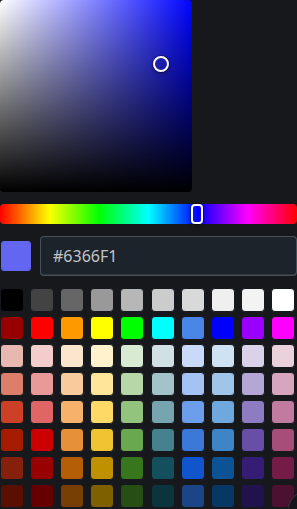
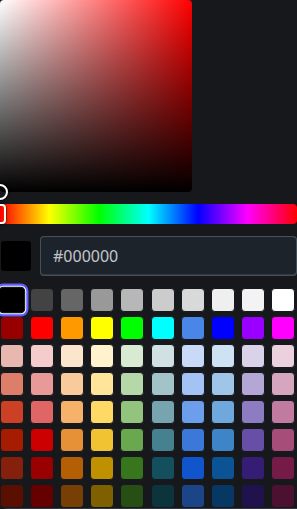
Improve component overview screenshots for interactive components
Update capture script to handle floating/portal elements by calculating
combined bounding boxes of trigger + floating content. Components like
Dropdown, Autocomplete, ColorPicker now show their open state in the
overview page.

diff --git a/packages/docs/scripts/capture-components.ts b/packages/docs/scripts/capture-components.ts
@@ -42,10 +42,12 @@ interface DemoConfig {
   demo?: number           // Which demo (1-indexed, default 1)
   selector?: string       // Custom selector instead of demo index
   click?: string          // Selector to click before capturing
+  hover?: string          // Selector to hover before capturing (for hover triggers)
   wait?: number           // Extra wait time after click (ms)
   captureArea?: boolean   // Capture the whole demo area (for dropdowns, popovers, etc.)
   padding?: string        // Add padding to demo area (for overflow elements like badges)
   center?: boolean        // Center content in demo area
+  floating?: string       // Selector for floating element to include (rendered via portal)
 }
 
 const DEMO_CONFIG: Record<string, DemoConfig> = {
@@ -55,8 +57,11 @@ const DEMO_CONFIG: Record<string, DemoConfig> = {
   'collapse': { click: '.collapse-title' },
   'countdown': { captureArea: true, padding: '0.5rem', center: true },
   'hero': { demo: 3 },  // WithFigureDemo - Box Office News
-  // These components have floating elements that are hard to capture cleanly
-  // Just show them in their closed/default state
+  // Floating elements - click to open and capture combined area
+  'dropdown': { demo: 5, click: 'button', wait: 300, floating: '.d-menu' },  // WithIconsDemo
+  'autocomplete': { click: 'input', wait: 300, floating: '.d-menu' },
+  'tooltip': { demo: 4, captureArea: true, padding: '2rem 1rem 1rem 1rem' },  // OpenStateDemo - always visible
+  'colorpicker': { click: 'button', wait: 300, floating: '[class*="colorpicker"]' },
 }
 
 // All components
@@ -120,6 +125,41 @@ async function getComponentElement(page: any, slug: string) {
     }
   }
 
+  // Hover to activate if configured
+  if (config.hover) {
+    const hoverTarget = await demoArea.$(config.hover)
+    if (hoverTarget) {
+      await hoverTarget.hover()
+      await page.waitForTimeout(config.wait || 300)
+    }
+  }
+
+  // If floating element configured, find the visible floating element
+  if (config.floating) {
+    // Find the visible floating element (rendered via portal to body)
+    const floating = await page.evaluateHandle((selector: string) => {
+      const elements = document.querySelectorAll(selector)
+      for (const el of elements) {
+        const rect = el.getBoundingClientRect()
+        const style = getComputedStyle(el)
+        // Check if element is visible and positioned on screen
+        if (rect.width > 0 && rect.height > 0 &&
+            style.display !== 'none' &&
+            style.visibility !== 'hidden' &&
+            rect.top > 0 && rect.left > 0) {
+          return el
+        }
+      }
+      return null
+    }, config.floating)
+
+    const floatingEl = floating.asElement()
+    if (floatingEl) {
+      const trigger = await demoArea.$(':scope > *')
+      return { trigger, floating: floatingEl, type: 'combined' }
+    }
+  }
+
   // Return the demo area or its first child based on config
   if (config.captureArea) {
     return demoArea
@@ -150,11 +190,40 @@ async function captureComponent(page: any, slug: string, theme: 'light' | 'dark'
     const suffix = theme === 'dark' ? '-dark' : ''
     const outputPath = join(OUTPUT_DIR, `${slug}${suffix}.png`)
 
-    await component.screenshot({
-      path: outputPath,
-      type: 'png',
-      omitBackground: true,
-    })
+    // Handle combined bounding box for floating elements
+    if (component.type === 'combined') {
+      const triggerBox = await component.trigger.boundingBox()
+      const floatingBox = await component.floating.boundingBox()
+
+      if (!triggerBox || !floatingBox) {
+        return false
+      }
+
+      // Calculate combined bounding box with padding
+      const padding = 8
+      const x = Math.min(triggerBox.x, floatingBox.x) - padding
+      const y = Math.min(triggerBox.y, floatingBox.y) - padding
+      const right = Math.max(triggerBox.x + triggerBox.width, floatingBox.x + floatingBox.width) + padding
+      const bottom = Math.max(triggerBox.y + triggerBox.height, floatingBox.y + floatingBox.height) + padding
+
+      await page.screenshot({
+        path: outputPath,
+        type: 'png',
+        omitBackground: true,
+        clip: {
+          x: Math.max(0, x),
+          y: Math.max(0, y),
+          width: right - x,
+          height: bottom - y,
+        },
+      })
+    } else {
+      await component.screenshot({
+        path: outputPath,
+        type: 'png',
+        omitBackground: true,
+      })
+    }
 
     return true
   } catch (err: any) {
